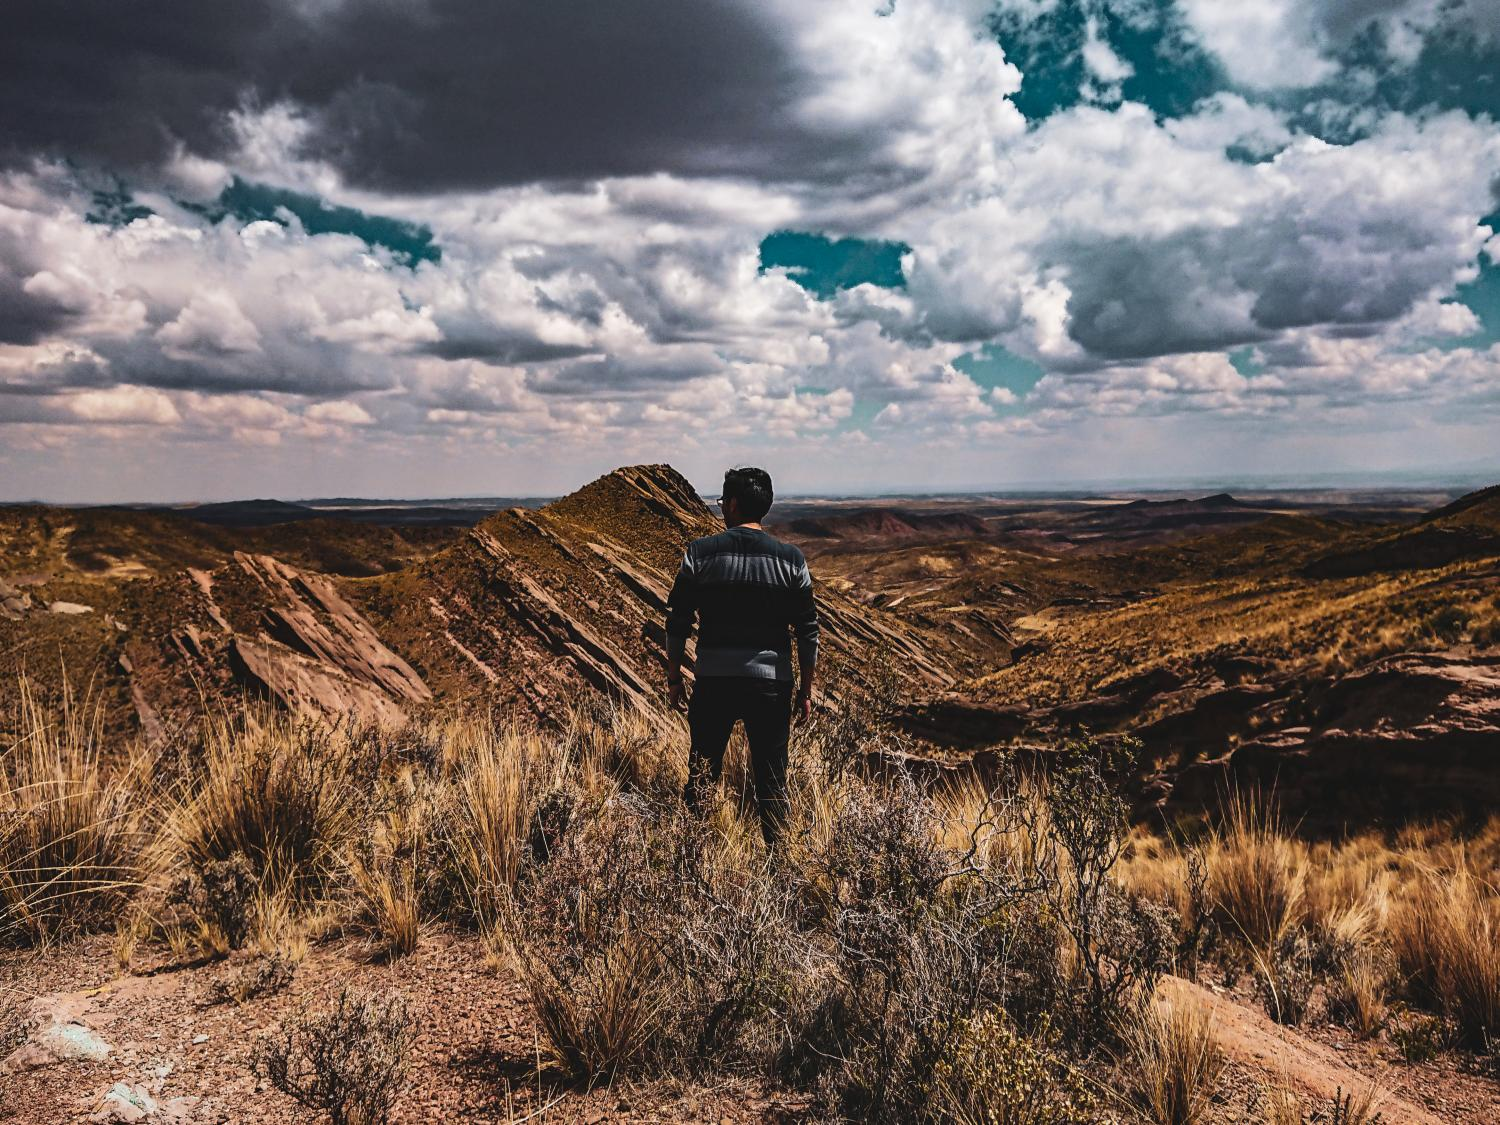
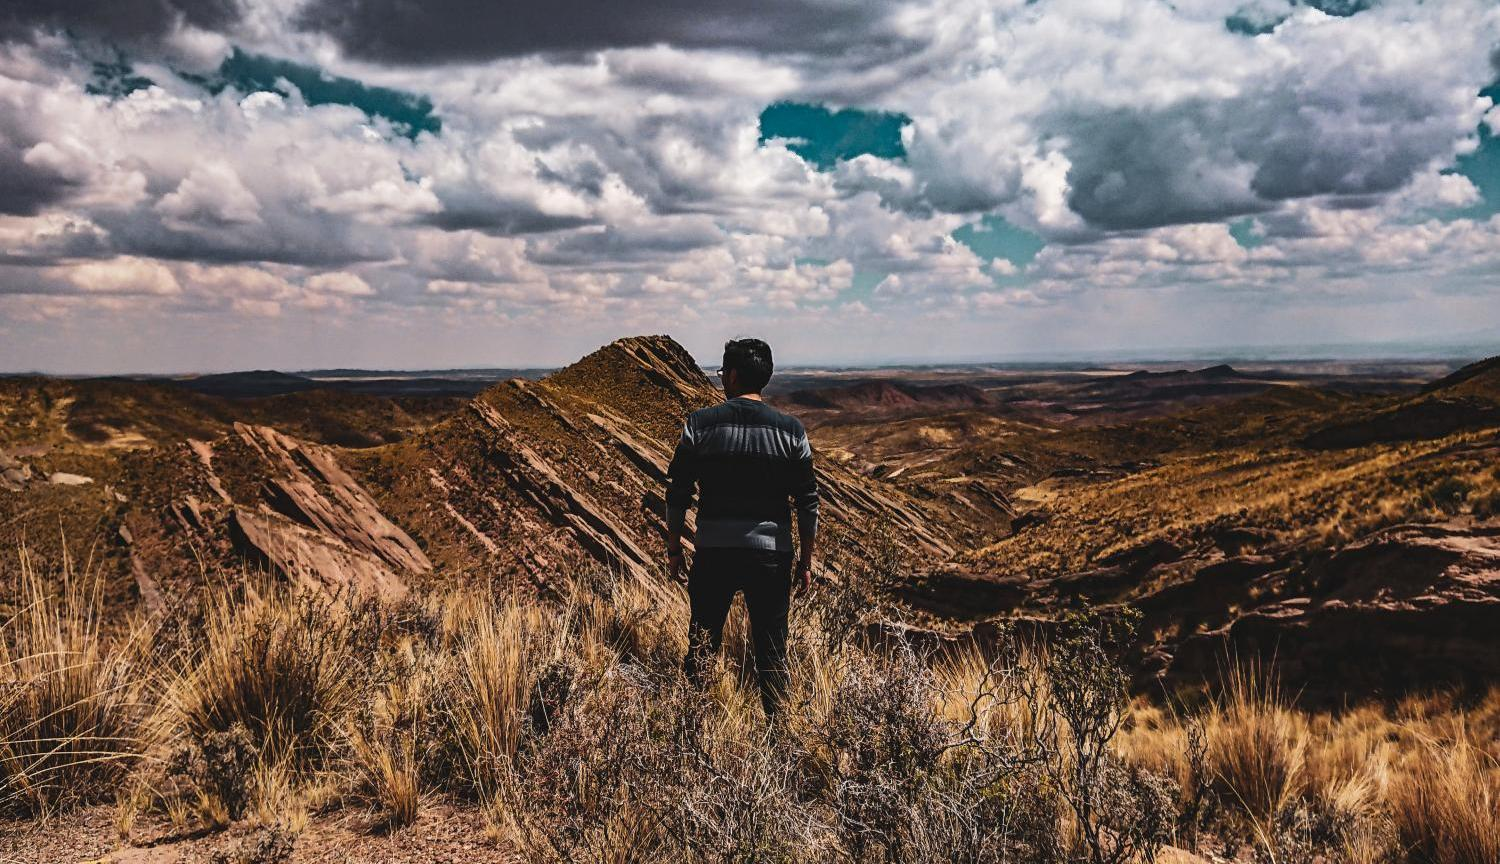
Updating page.

diff --git a/about.html b/about.html
@@ -6,7 +6,7 @@ layout: default
 
 <!-- Hero start -->
 
-<section id="home" class="hero-header module-image js-height-full" style="background: url('../assets/images/header__about.jpg') no-repeat fixed #5b5963">
+<section id="home" class="hero-header module-image js-height-full" style="background: url('../assets/images/header__about.jpg') 50% 50% no-repeat fixed #5b5963">
 	<div class="intro">
 		<h1>What I can do</h1>
 		<div class="who-creates">About me</div>

diff --git a/index.html b/index.html
@@ -4,7 +4,7 @@ layout: default
 
 <!-- Home start -->
 
-<section id="home" class="hero-header module-image js-height-full" style="background: url('../assets/images/home2.jpg') no-repeat fixed #5b5963">
+<section id="home" class="hero-header module-image js-height-full" style="background: url('../assets/images/home2.jpg') 50% 50% no-repeat fixed #5b5963">
 	<div class="intro">
 		<center>
 			<h1>Hello, I am John Choque</h1>
